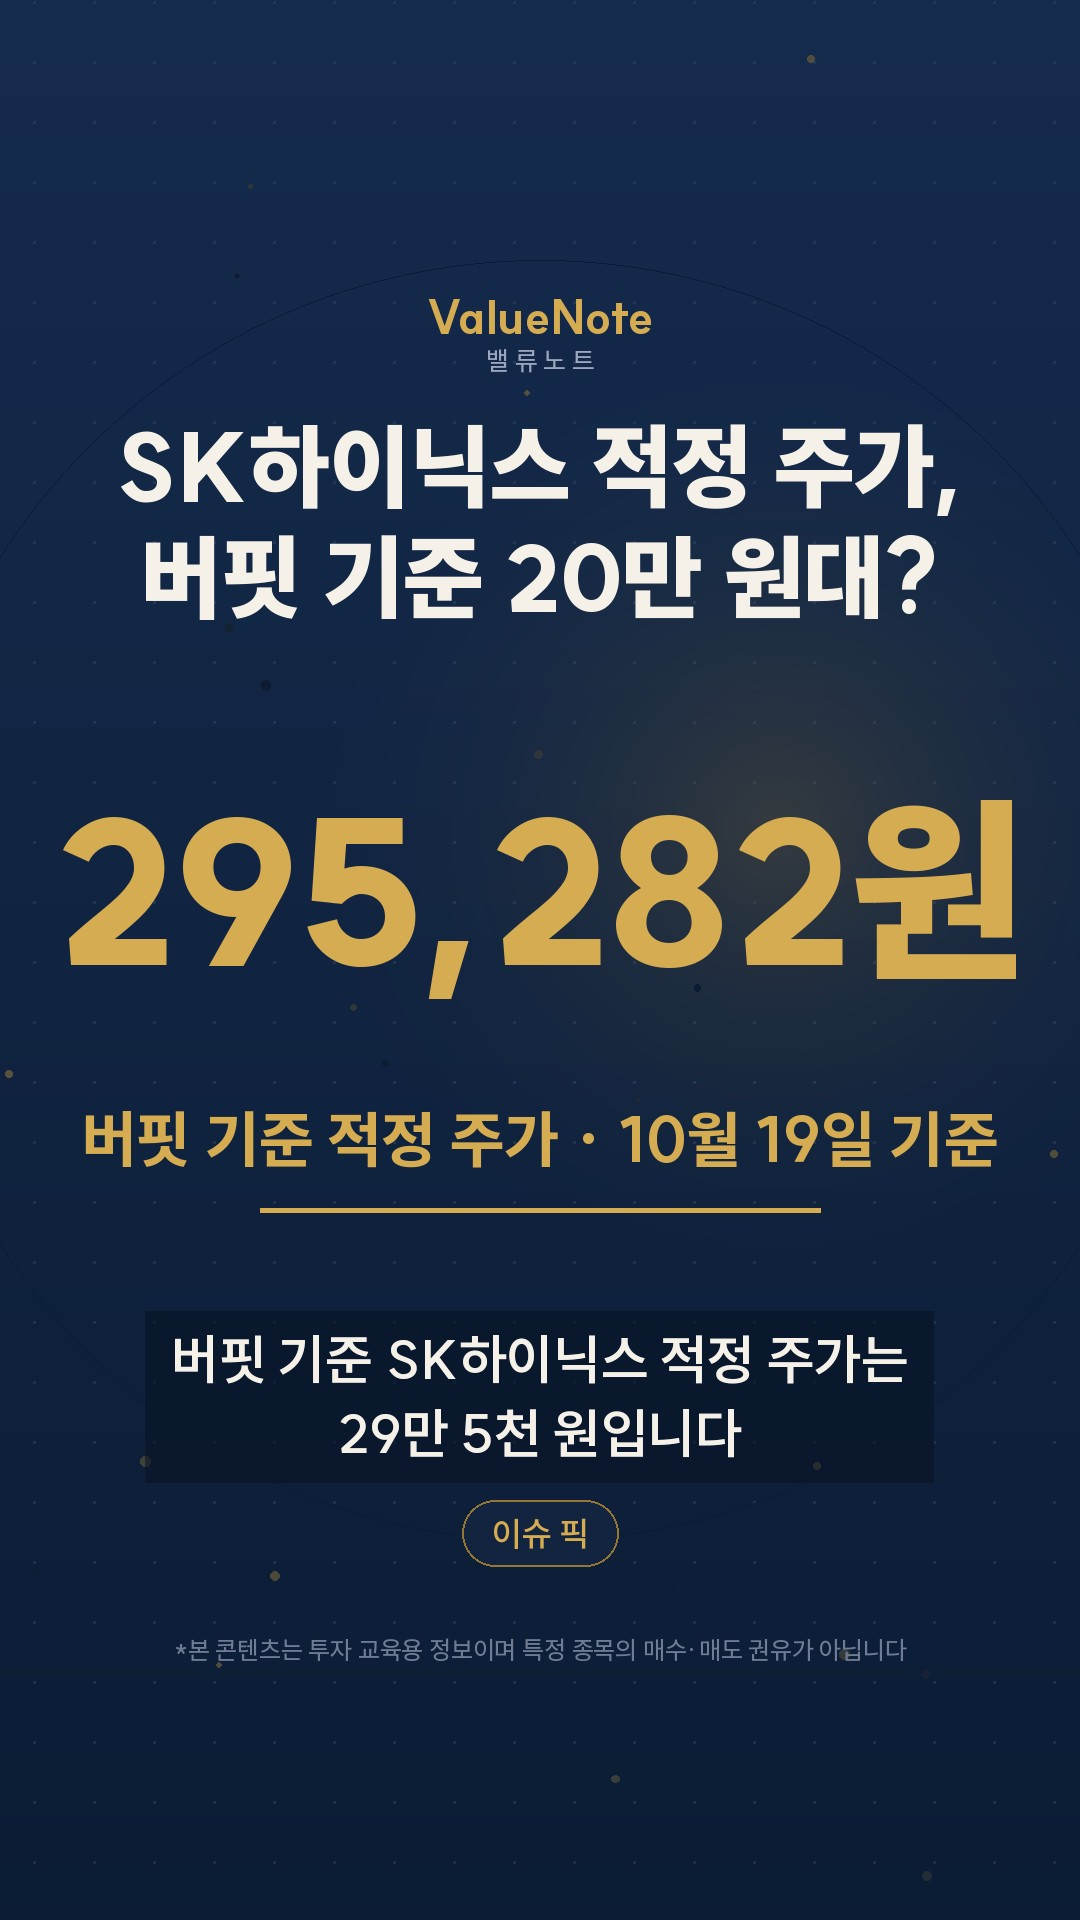
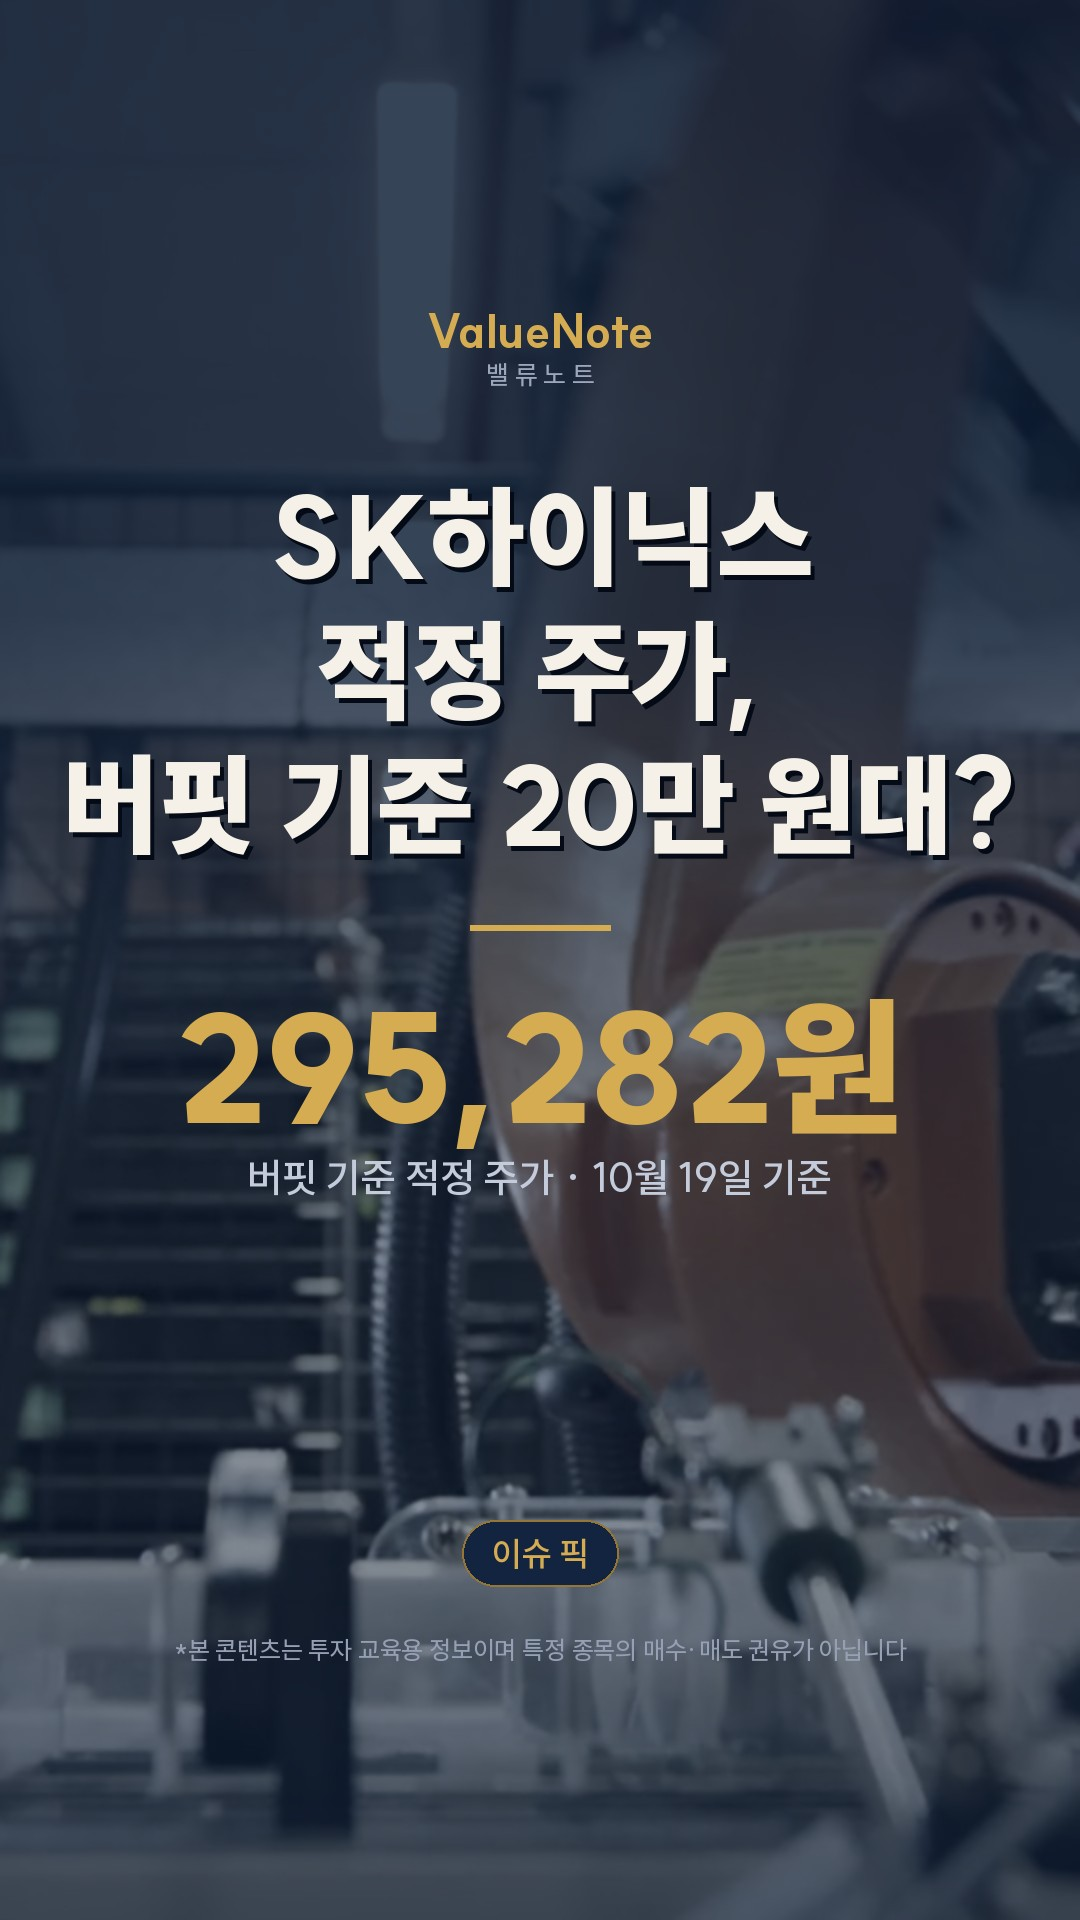
썸네일: 제목이 주인공인 새 표지(cover_style title) 시범 — SK하이닉스 후속 릴스에 먼저 적용
Claude-Session: https://claude.ai/code/session_01GakVei8pWSzCbkzXrVwEcr

diff --git a/scripts/reels/engine.py b/scripts/reels/engine.py
@@ -781,6 +781,7 @@ def frame(T, scenes, total):
     return img
 
 # ── 썸네일(cover.jpg): 시리즈별로 다른 그림, 같은 틀 ────────────
+COVER_STYLE = "box"  # "title" = 제목이 주인공인 새 썸네일 (2026-10-20 시범: 대본에 "cover_style": "title")
 COVER_V = 2   # 썸네일 방식이 바뀌면 올린다 → build.py 가 아직 안 올라간 릴스의 썸네일만 다시 만든다
 COVER_PREF = {"F": ["screen", "list", "bars", "compare"], "G": ["list", "bars", "compare"],
               "A": ["bars", "compare", "list"], "M": ["line", "bars"], "E": ["line", "bars"], "R": [], "D": ["race"]}
@@ -844,10 +845,55 @@ def plan_estimate(spec):
         scenes.append({"sc": sc, "start": t, "dur": dur, "L": L, "vo": []}); t += dur
     return scenes, t
 
+def cover_title(spec, scenes):
+    """2026-10-20 운영자 요청: 제목이 주인공인 썸네일. 큰 제목(최대 3줄) → 답이 되는 숫자는 작게 → 시리즈 표시.
+    배경은 그 릴스의 실사 영상 한 장면을 어둡게(격자에서 게시물마다 달라 보이게). 요소는 y 285~1635(4:5 격자) 안."""
+    first = scenes[0]["sc"]
+    title = spec.get("cover_title") or first.get("top") or spec.get("title", "")
+    rows = [r for r in title.split("\n") if r][:3]
+    img = background(1.0, 0.0)
+    k = broll_key(spec)
+    if k:
+        try:
+            fr = broll_load(k, 2.0)
+            if fr is not None:
+                v = Image.fromarray(fr[min(len(fr) - 1, 45)]).resize((W, H), Image.BILINEAR)
+                a = np.asarray(v, np.float32); g = a.mean(2, keepdims=True); a = a * .5 + g * .5
+                yy = np.linspace(0, 1, H)[:, None, None]
+                dark = (.50 + .32 * np.clip((.62 - yy) / .30, 0, 1) ** 1.2 + .18 * np.clip((yy - .80) / .20, 0, 1)).astype(np.float32)  # 위(제목)는 짙게, 가운데는 사진이 보이게, 끊김 없이
+                out = a * (1 - dark) + np.array(NAVY, np.float32) * dark
+                img = Image.fromarray(np.clip(out, 0, 255).astype(np.uint8))
+        except Exception as e: print("  썸네일 배경 실패", k, e)
+    d = ImageDraw.Draw(img)
+    logo(d, 330)
+    size = 132 if len(rows) <= 2 else 116
+    font = F("Heavy", size)
+    while size > 84 and max(font.getlength(r) for r in rows) > 980: size -= 6; font = F("Heavy", size)
+    lh = int(size * 1.22); y0 = 470 + lh // 2 + (0 if len(rows) == 3 else lh // 3)
+    for i, r in enumerate(rows):
+        y = y0 + i * lh
+        d.text((W / 2 + 4, y + 5), r, font=font, fill=(4, 10, 22), anchor="mm")  # 그림자: 사진 위에서도 읽히게
+        d.text((W / 2, y), r, font=font, fill=IVORY, anchor="mm")
+    yb = y0 + (len(rows) - 1) * lh + int(size * .75) + 40
+    d.line([(W / 2 - 70, yb), (W / 2 + 70, yb)], fill=GOLD, width=6)
+    num = first.get("num") if first.get("type") == "hook" else None
+    if num and not spec.get("cover_hide_num"):
+        s = fmt_num(num["to"], num)
+        nf = fit_font(s, "Heavy", 150, 900)
+        d.text((W / 2, yb + 140), s, font=nf, fill=TONE.get(first.get("tone", "gold"), GOLD), anchor="mm")
+        lab = spec.get("cover_label") or first.get("label")
+        if lab: d.text((W / 2, yb + 250), lab, font=fit_font(lab, "SemiBold", 40, 900), fill=(196, 204, 220), anchor="mm")
+    tag = series_tag(spec); tf = F("SemiBold", 34); tw = tf.getlength(tag); x0 = W / 2 - tw / 2 - 30; ty = 1520
+    d.rounded_rectangle([x0, ty, x0 + tw + 60, ty + 66], 33, fill=(18, 36, 64), outline=GOLD_D, width=2)
+    d.text((W / 2, ty + 33), tag, font=tf, fill=GOLD, anchor="mm")
+    d.text((W / 2, 1650), DISC_VIDEO, font=F("Medium", 25), fill=(150, 160, 180), anchor="mm")
+    return img
+
 def render_cover(spec, outdir):
     os.makedirs(outdir, exist_ok=True)
     scenes, _ = plan_estimate(spec)
-    cover(spec, scenes).save(os.path.join(outdir, "cover.jpg"), quality=90)
+    im = cover_title(spec, scenes) if spec.get("cover_style", COVER_STYLE) == "title" else cover(spec, scenes)
+    im.save(os.path.join(outdir, "cover.jpg"), quality=90)
     open(os.path.join(outdir, "cover.v"), "w").write(str(COVER_V))
 
 # ── 오디오: 직접 합성한 배경음악·효과음 + 내레이션 (저작권 없음) ──
@@ -1004,7 +1050,7 @@ def render(spec, outdir, stills=None):
     for i in range(int(total * FPS)):
         p.stdin.write(frame(i / FPS, scenes, total).tobytes())
     p.stdin.close(); p.wait(); os.remove(wav)
-    cover(spec, scenes).save(os.path.join(outdir, "cover.jpg"), quality=90)
+    (cover_title(spec, scenes) if spec.get("cover_style", COVER_STYLE) == "title" else cover(spec, scenes)).save(os.path.join(outdir, "cover.jpg"), quality=90)
     open(os.path.join(outdir, "cover.v"), "w").write(str(COVER_V))
     return total
 
